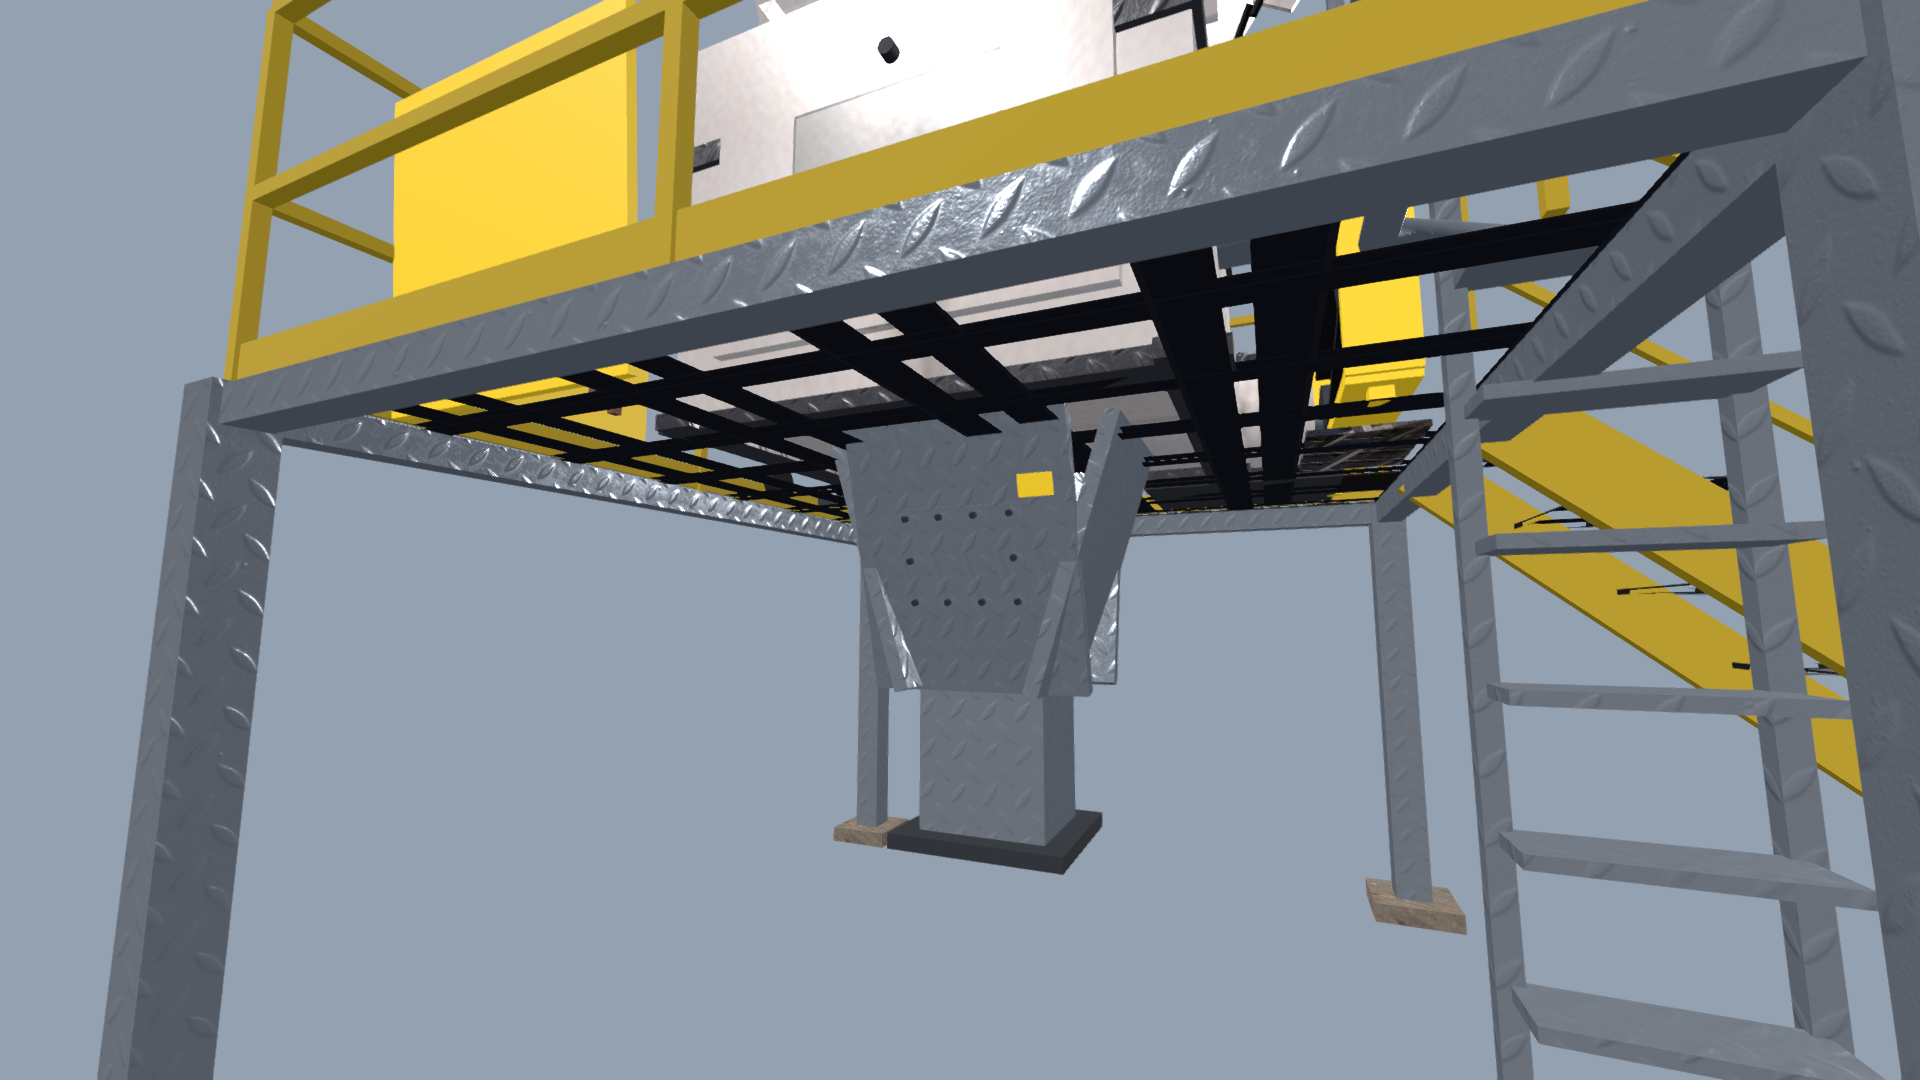
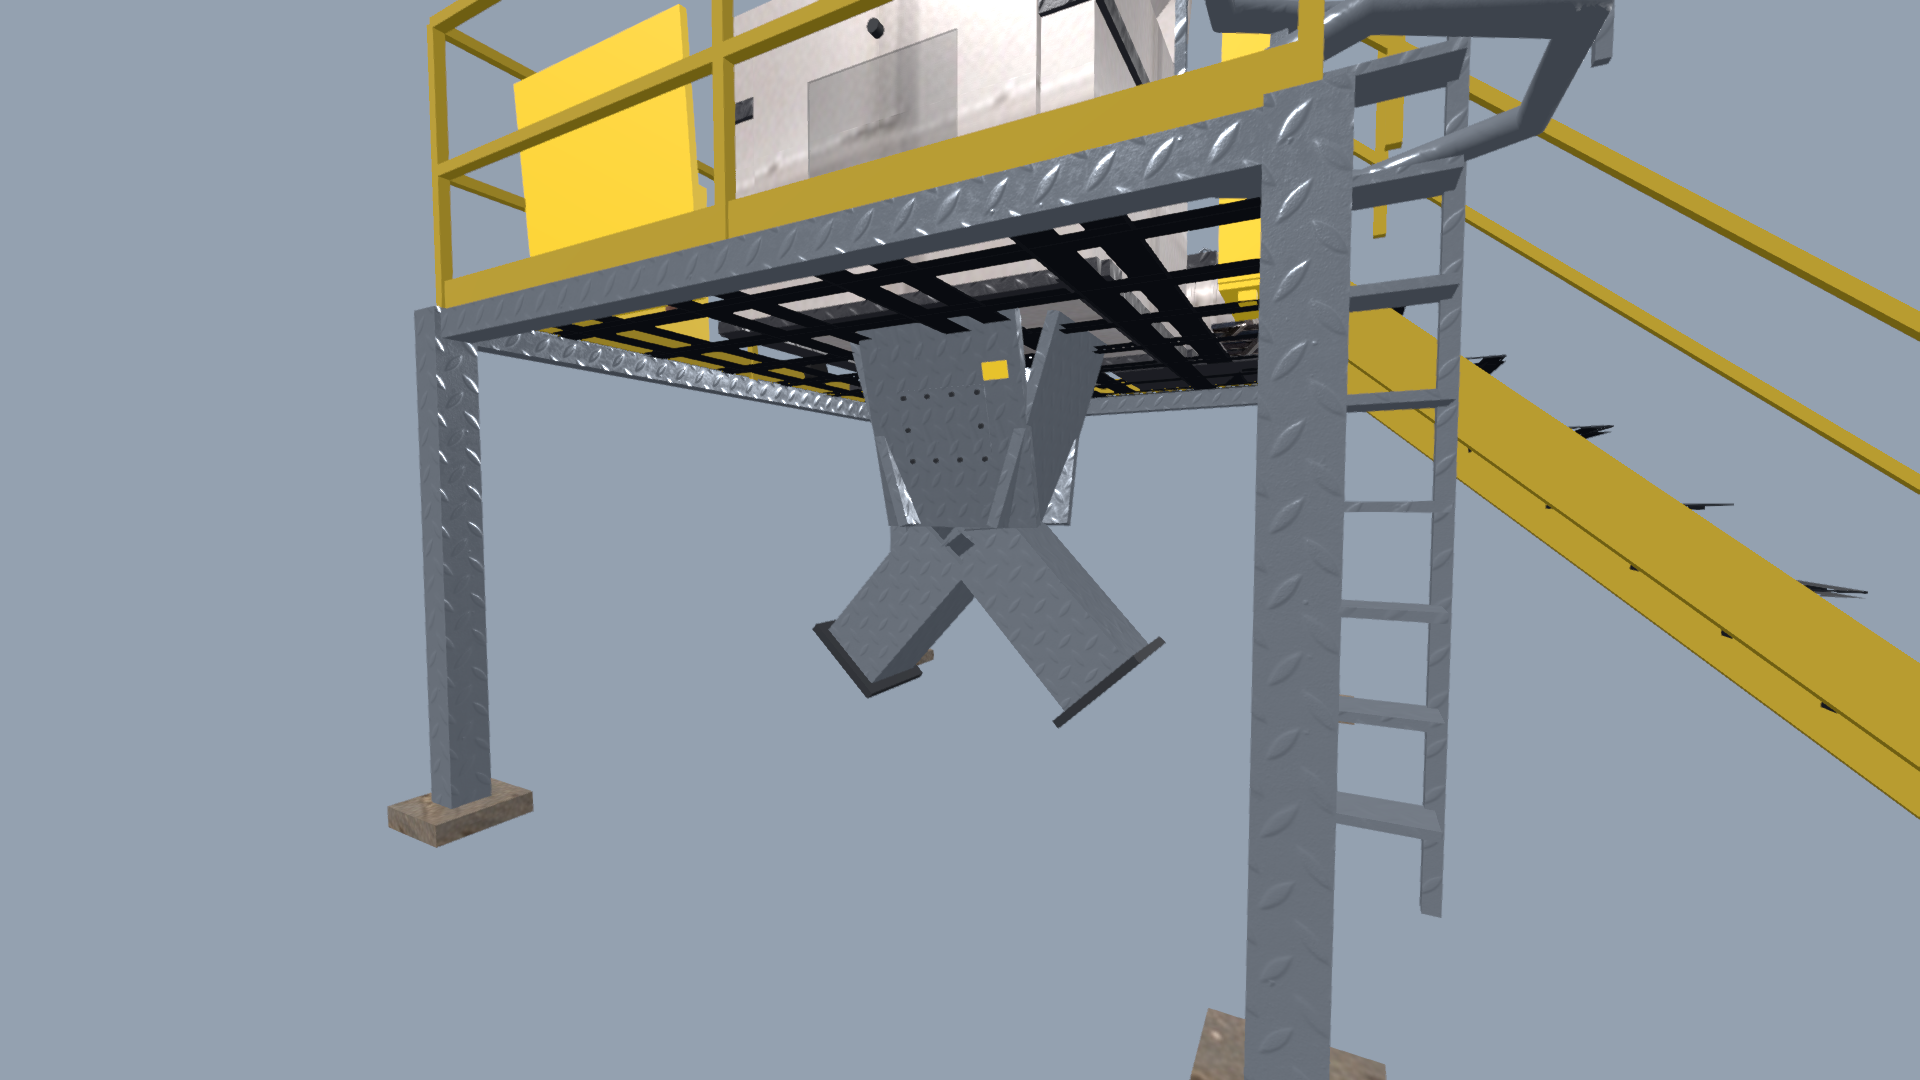
Maalmolen discharge is a Y SPLITTER — operator ruling, and my retraction was wrong
OPERATOR 2026-09-06: "the frame under the mill is the chute that is an upside
down Y splitter, dividing material from the mill left and right again to the
friction separators > transportation screws towards the flotation tank inlet
paddle"

This overturns the retraction made earlier the same day, NOT the original
reading. Section 9b's "ending in pointed outlets" was RIGHT. The re-reading that
called the pointed shapes "gusset tops of two floor-standing support posts" was
the error — a wrong correction of a correct claim. §9b is restored to plain
PHOTO and §9h is flagged as superseded rather than deleted, so the mistake stays
legible.

Lesson recorded in §9i, and it is the opposite of §9e's: a RETRACTION needs the
same standard of evidence as the claim it retracts. Re-zooming produced a new
confident reading, and confidence was not enough.

Geometry: the trunk still converges off the chamber underside and through the
deck. Below it there is now a divider ridge — two plates meeting in an apex on
the centreline, pointing up into the falling stream, which is the pointed
element in the photograph — and two legs leaning 42.8 deg from vertical to
outlets 1.29 m apart against a 0.44 m throat. Replaces a single straight duct on
the centreline that split nothing.

The split axis is +/-X, measured not chosen: BuildMode.LINE_3C_SEQ places L3C.9L
at x -3.0 and L3C.9R at x +3.0 relative to the mill.

The sim topology ALREADY matched the operator's description exactly —
[…]

diff --git a/docs/plant/maalmolen_3c_photo_reading_2026-08-29.md b/docs/plant/maalmolen_3c_photo_reading_2026-08-29.md
@@ -237,7 +237,7 @@ zoomed. **Nothing in sections 2-5 is contradicted.** The following are additions
 | **Yellow GRP grating** | Yellow perforated/GRP grating panels below deck around the friction separators — distinct from the yellow *mesh belt guard* and from the galvanised steel grating of the mill's own bordes. Three different yellow surfaces, do not conflate them. | PHOTO |
 | **Infeed screw livery** | The transport screw discharging into the mill's hopper is **galvanised grey**, not cream, and carries its own yellow name sticker. | PHOTO |
 | **Hopper lid clamps** — **MODELLED 2026-09-06** | A row of white clamp cylinders / hinged-lid hardware along the top-right edge of the infeed hopper. Zoomed: **three** bracket + dark-pad assemblies and **two** spindle clamps with barrel nuts, one trailing a hose, on the **+X** wall. See §9h. | PHOTO |
-| **Under-deck discharge** — **PART MODELLED / PART RETRACTED 2026-09-06** | The grey box is real: its finish is fixed (was near-black `aged`, now `galv`) and its bolted access plate and yellow sticker are built. ~~ending in pointed outlets~~ — **WRONG, RETRACTED.** Those are the gusset tops of two floor-standing support posts and they point *upward*. See §9h. | PHOTO, partly corrected |
+| **Under-deck discharge** — **MODELLED 2026-09-06** | An upside-down **Y SPLITTER** (operator, §9i): trunk off the chamber, a divider ridge, two legs to outlets 1.29 m apart feeding the L/R friction separators. Finish fixed (was near-black `aged`, now `galv`); bolted access plate and yellow sticker built. The “pointed outlets” in this line are **correct** — a same-day retraction of them in §9h was itself wrong and is withdrawn. | PHOTO |
 
 ### 9b-i. What was modelled on 2026-08-30, and what is still open
 
@@ -415,7 +415,7 @@ smaller lockup low and right of the wordmark, so it is a **second label** — on
 blue globe standing in for the O. A `Label3D` cannot express it and faking it
 with an emissive disc would be a guess at the artwork. Ask before adding one.
 
-**4. Under-deck discharge — finish FIXED, "pointed outlets" RETRACTED.**
+**4. Under-deck discharge — finish FIXED. ⚠ The "pointed outlets" retraction below is ITSELF WITHDRAWN — see §9i.** Kept here only so the mistake is legible.
 
 > §9b said: *"a large cream/grey hopper box with a steeply angled bottom, ending
 > in **pointed outlets**."*
@@ -466,6 +466,49 @@ Model count **250 → 275 parts.** Verified by
 one mutation-tested (24 mutations, every assertion proven to fire).
 `verify_mill_addons_2026_08_30.gd` still passes 29/29 after the cabinet move.
 Renders: `docs/plant/renders/shot_mill_3c_{clamps,cowl,underdeck}_2026_09_06.png`.
+
+### 9i. The under-deck chute is a Y SPLITTER — operator, 2026-09-06
+
+> **OPERATOR:** *"the frame under the mill is the chute that is an upside down Y
+> splitter, dividing material from the mill left and right again to the friction
+> separators > transportation screws towards the flotation tank inlet paddle"*
+
+**This overturns §9h's retraction, not §9b.** §9b's original *"ending in pointed
+outlets"* was RIGHT. The 2026-09-06 re-reading that called the pointed shapes
+"gusset tops of two floor-standing support posts" and retracted the outlets was
+the error — the second wrong reading of this same object, and this time the
+wrong reading was mine correcting a right one. §9b item **Under-deck discharge**
+is restored to plain **PHOTO**.
+
+*Lesson, and it is the opposite of §9e's.* §9e taught that a confident reading of
+a photograph can be wrong and the operator's correction wins. §9h then applied
+that lesson too eagerly: re-zooming produced a new confident reading and
+retracted a claim that was actually correct. **A retraction needs the same
+standard of evidence as the claim it retracts.** At this resolution the
+structure is genuinely ambiguous — a chute with two outlets, hanging in a frame
+of two posts, photographed at a steep angle. Do not re-derive either reading
+from the photograph alone.
+
+**What is now modelled.** The trunk still converges off the chamber underside and
+through the deck. Below the deck it now carries a **divider ridge** — two plates
+meeting in an apex on the centreline, pointing up into the falling stream, which
+is the pointed element in the photograph — and **two legs** leaning out at 42.8°
+from vertical to outlets 1.29 m apart, against a 0.44 m throat. This replaces a
+single straight duct on the centreline that split nothing.
+
+**The split axis is +/-X, and that is measured, not chosen.**
+`BuildMode.LINE_3C_SEQ` places `L3C.9L` at **x -3.0** and `L3C.9R` at **x +3.0**
+relative to the mill, and `Line3CDef.LINKS` already carries
+`["L3C.6","L3C.9L"]` and `["L3C.6","L3C.9R"]`, then `L3C.9L/R -> L3C.10L/R ->
+L3C.11 Flotatietank`.
+
+**The sim topology already matched the operator's description exactly** — mill
+-> two friction separators -> two transport screws -> flotation tank. Only the
+geometry was missing. No flow defect to fix.
+
+*Still not modelled from this answer:* the **flotation tank inlet paddle** named
+at the end of the operator's chain. It is a separate machine
+(`flotation_tank_wide`, `L3C.11`) and was not inspected in this pass.
 
 ### 9c. Construction-only in the file — re-confirmed, do NOT model
 
